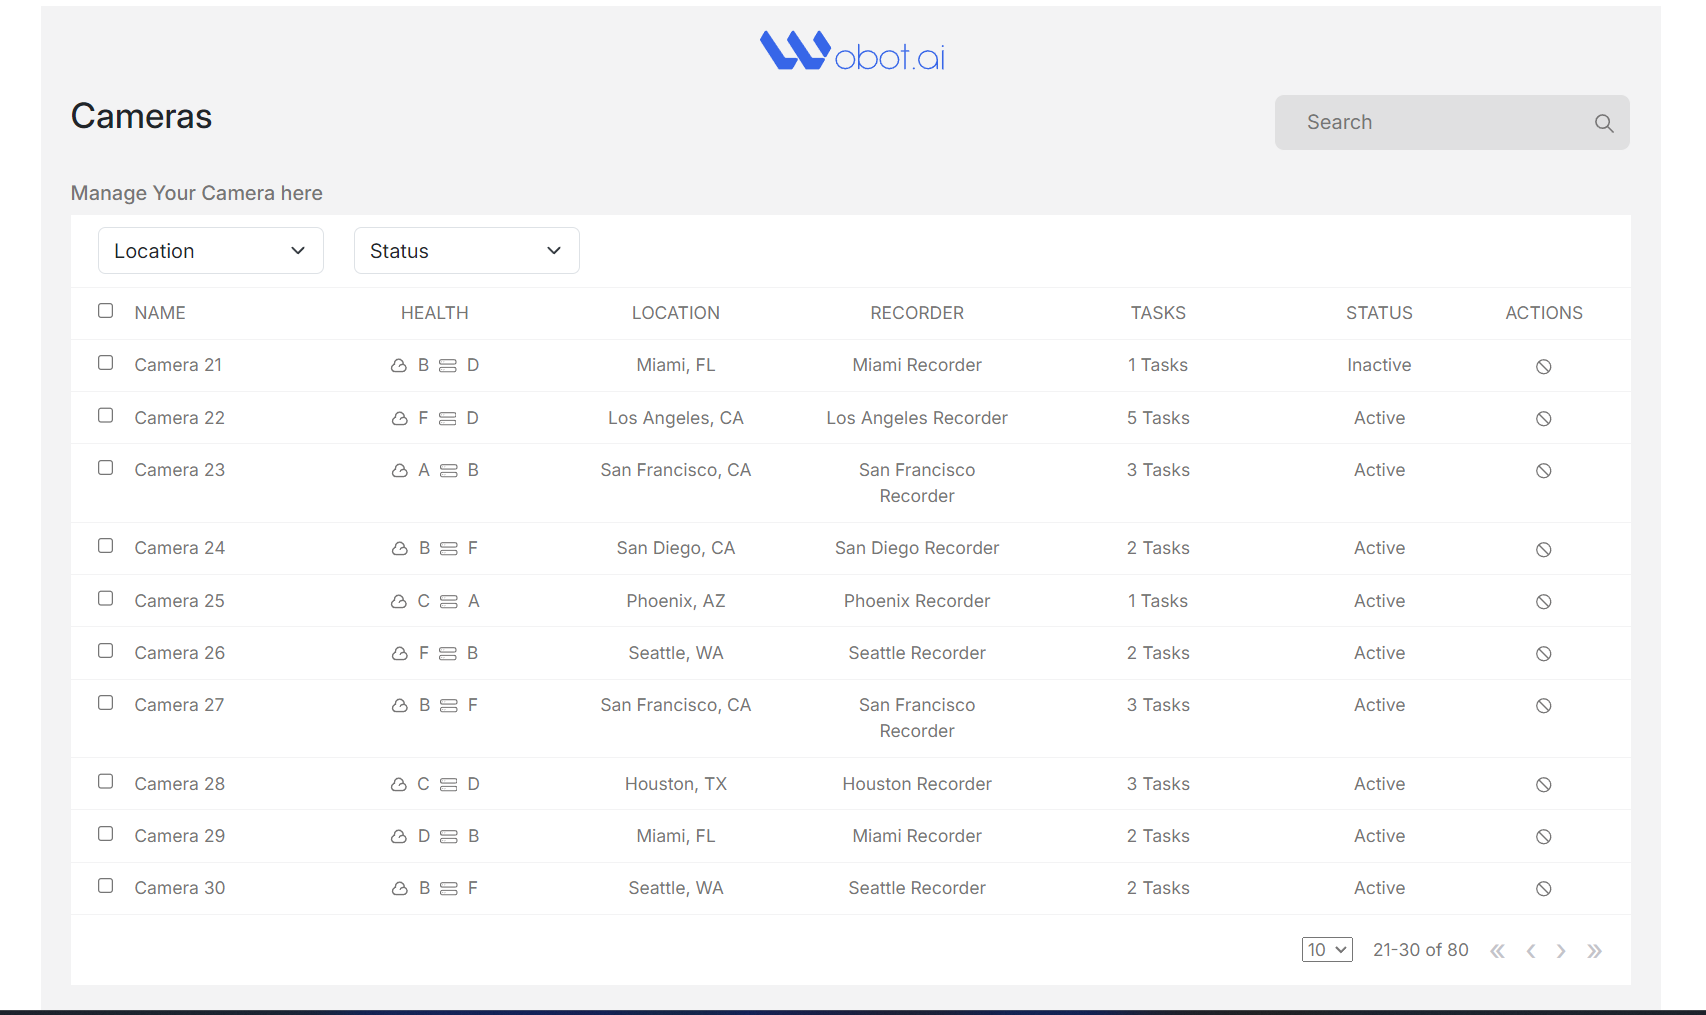
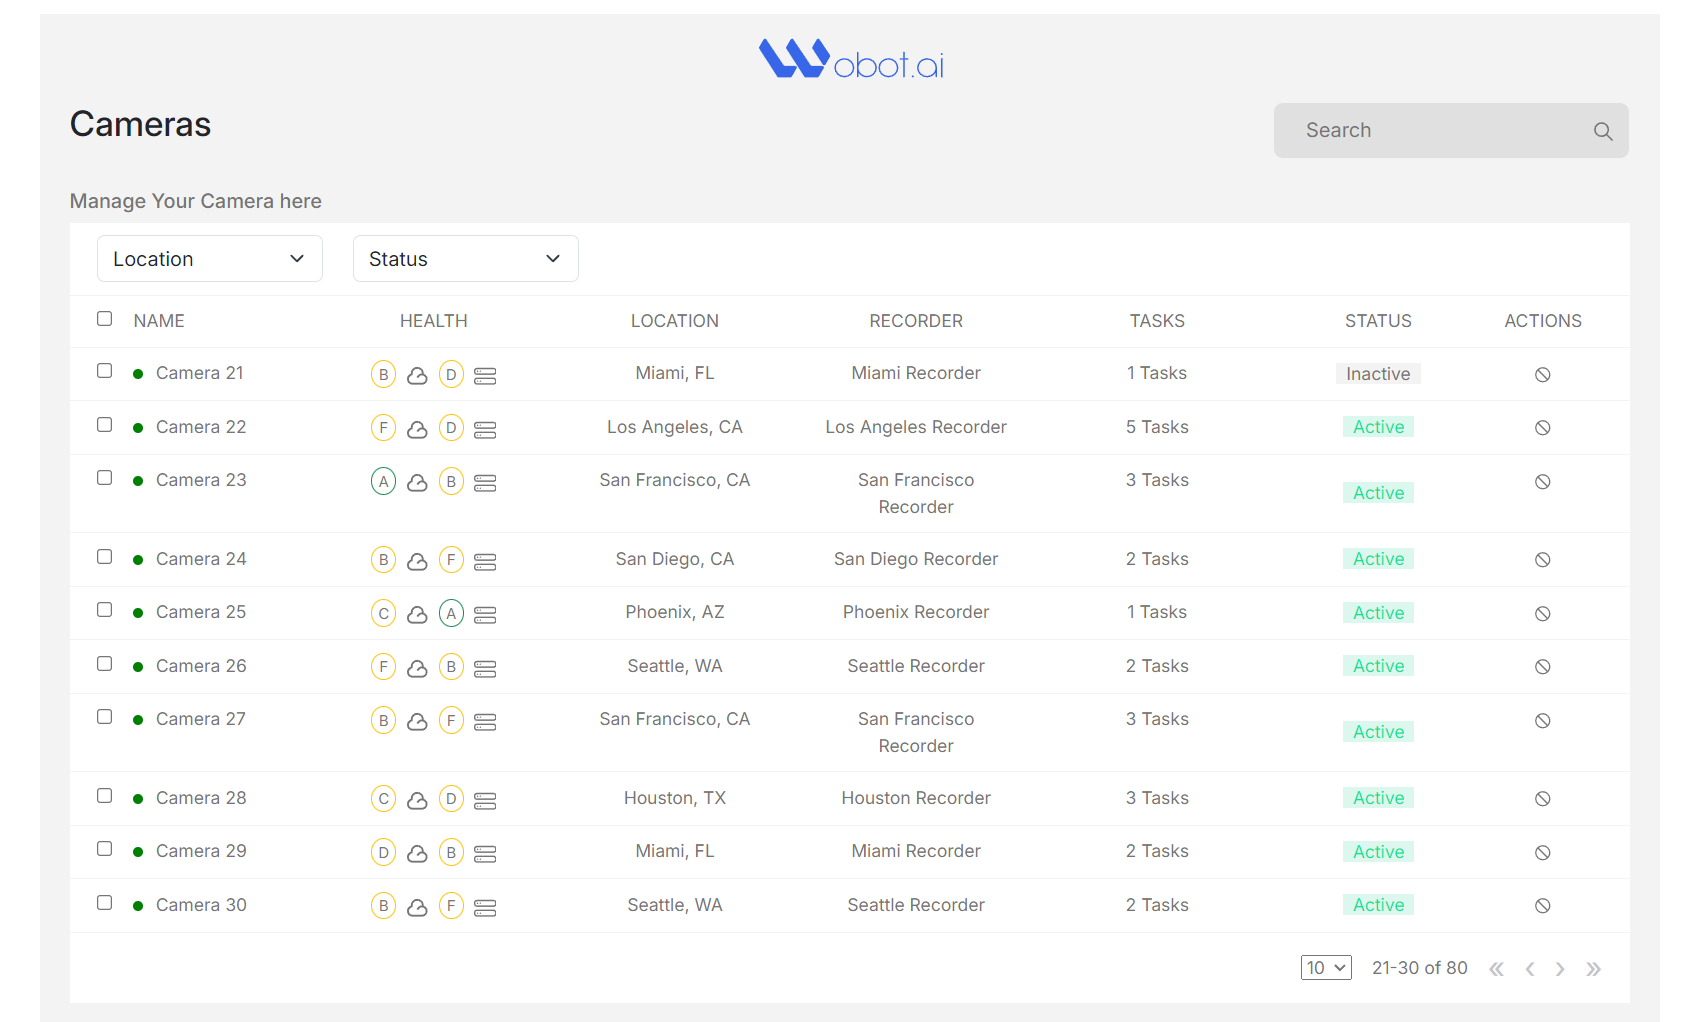
Modified README file

diff --git a/src/Components/Camera_list.js b/src/Components/Camera_list.js
@@ -4,10 +4,9 @@ import logo from "../Assets/imgs/logo.svg";
 import "../Assets/css/Camera_list.css";
 import { IoIosSearch } from "react-icons/io";
 import { RiCloudLine } from "react-icons/ri";
-import { BsHddStack } from "react-icons/bs";
+import { BsHddStack, BsWifi } from "react-icons/bs";
 import { AiOutlineStop } from "react-icons/ai";
 import { CiLocationOn } from "react-icons/ci";
-import { BsWifi } from "react-icons/bs";
 
 const Camera_list = () => {
   // State for camera data, location, filters, search, and pagination
@@ -46,7 +45,7 @@ const Camera_list = () => {
 
   useEffect(() => {
     FetchData();
-  }, [Data]);
+  }, []);
 
   // Filter the camera data based on selected location, status, and search term
   const FilteredData = Data.filter((cur) => {
@@ -57,11 +56,9 @@ const Camera_list = () => {
     const StatusMatch = SelectedStatus ? cur.status === SelectedStatus : true;
 
     const MatchSearch = searchData
-      ? cur.name.toLowerCase().includes(searchData.toLocaleLowerCase()) ||
-        cur.location
-          .toLocaleLowerCase()
-          .includes(searchData.toLocaleLowerCase()) ||
-        cur.status.toLocaleLowerCase().includes(searchData.toLocaleLowerCase())
+      ? cur.name.toLowerCase().includes(searchData.toLowerCase()) ||
+        cur.location.toLowerCase().includes(searchData.toLowerCase()) ||
+        cur.status.toLowerCase().includes(searchData.toLowerCase())
       : true;
 
     return LocationMatch && StatusMatch && MatchSearch;
@@ -81,11 +78,15 @@ const Camera_list = () => {
   const startItem = (page - 1) * pageSize + 1;
   const endItem = Math.min(page * pageSize, totalItems);
 
+  const getStatusClass = (value) => {
+    return value === "A" ? "border-success" : "border-warning";
+  };
+
   return (
     <div className="wrapper mt-5">
       <div className="mx-4">
         {/* Logo */}
-        <div className="logo d-flex justify-content-center ">
+        <div className="logo d-flex justify-content-center">
           <img src={logo} className="logo" alt="" />
         </div>
         <div className="d-flex justify-content-between">
@@ -156,20 +157,50 @@ const Camera_list = () => {
       {FilteredData.slice(startItem - 1, endItem).map((cur) => (
         <div className="row mx-4 bg-white table-list" key={cur.id}>
           <div className="col">
+            {/* Conditional rendering of the circle */}
             <input type="checkbox" className="me-3" />
-            {cur.name}
+
+            <span
+              className={`rounded-circle ${
+                cur.health.cloud && cur.health.device
+                  ? "circle-green"
+                  : "circle-red"
+              }`}
+            />
+            {cur.name || "N/A"}
           </div>
           <div className="col justify-content-center d-flex gap-2 ms-3">
-            <RiCloudLine className="mt-1" />
-            {cur.health.cloud}
-            <BsHddStack className="mt-1" />
-            {cur.health.device}
+            <div
+              className={`rounded-border border ${getStatusClass(
+                cur.health.cloud
+              )}`}
+            >
+              {cur.health.cloud}
+            </div>
+            <RiCloudLine className="mt-1" size={18} />
+            <div
+              className={`rounded-border border ${getStatusClass(
+                cur.health.device
+              )}`}
+            >
+              {cur.health.device}
+            </div>
+            <BsHddStack className="mt-1" size={18} />
           </div>
-          <div className="col ms-3 text-center">{cur.location}</div>
-          <div className="col ms-3 text-center">{cur.recorder}</div>
-          <div className="col ms-3 text-center">{cur.tasks} Tasks</div>
-          <div className="col text-center">
-            <span className="px-2">{cur.status}</span>
+          <div className="col ms-3 text-center">{cur.location || "N/A"}</div>
+          <div className="col ms-3 text-center">{cur.recorder || "N/A"}</div>
+          <div className="col ms-3 text-center">{cur.tasks || "N/A"} Tasks</div>
+          <div className="col text-center my-auto">
+            <span
+              style={{
+                color: cur.status === "Active" ? "#0ee298" : "",
+                backgroundColor:
+                  cur.status === "Active" ? "#dcf8ee" : "#f3f3f4",
+              }}
+              className="px-2"
+            >
+              {cur.status || "N/A"}
+            </span>
           </div>
           <div className="col-1">
             <AiOutlineStop className="ms-4" />

diff --git a/src/Assets/css/Camera_list.css b/src/Assets/css/Camera_list.css
@@ -56,7 +56,32 @@
   cursor: pointer;
 }
 
-.status {
-  color: green;
-  background-color: lightgreen;
+.rounded-border {
+  display: inline-flex;
+  align-items: center;
+  justify-content: center;
+  width: 20px;
+  height: 22px;
+  border-radius: 50%;
+  border-width: 20px !important;
+  border-style: solid;
+  color: inherit;
+  font-size: 12px;
+  line-height: 1;
+}
+
+.rounded-circle {
+  width: 8px;
+  height: 8px;
+  border-radius: 50%;
+  display: inline-block;
+  margin-right: 10px;
+}
+
+.circle-green {
+  background-color: green;
+}
+
+.circle-red {
+  background-color: red;
 }
